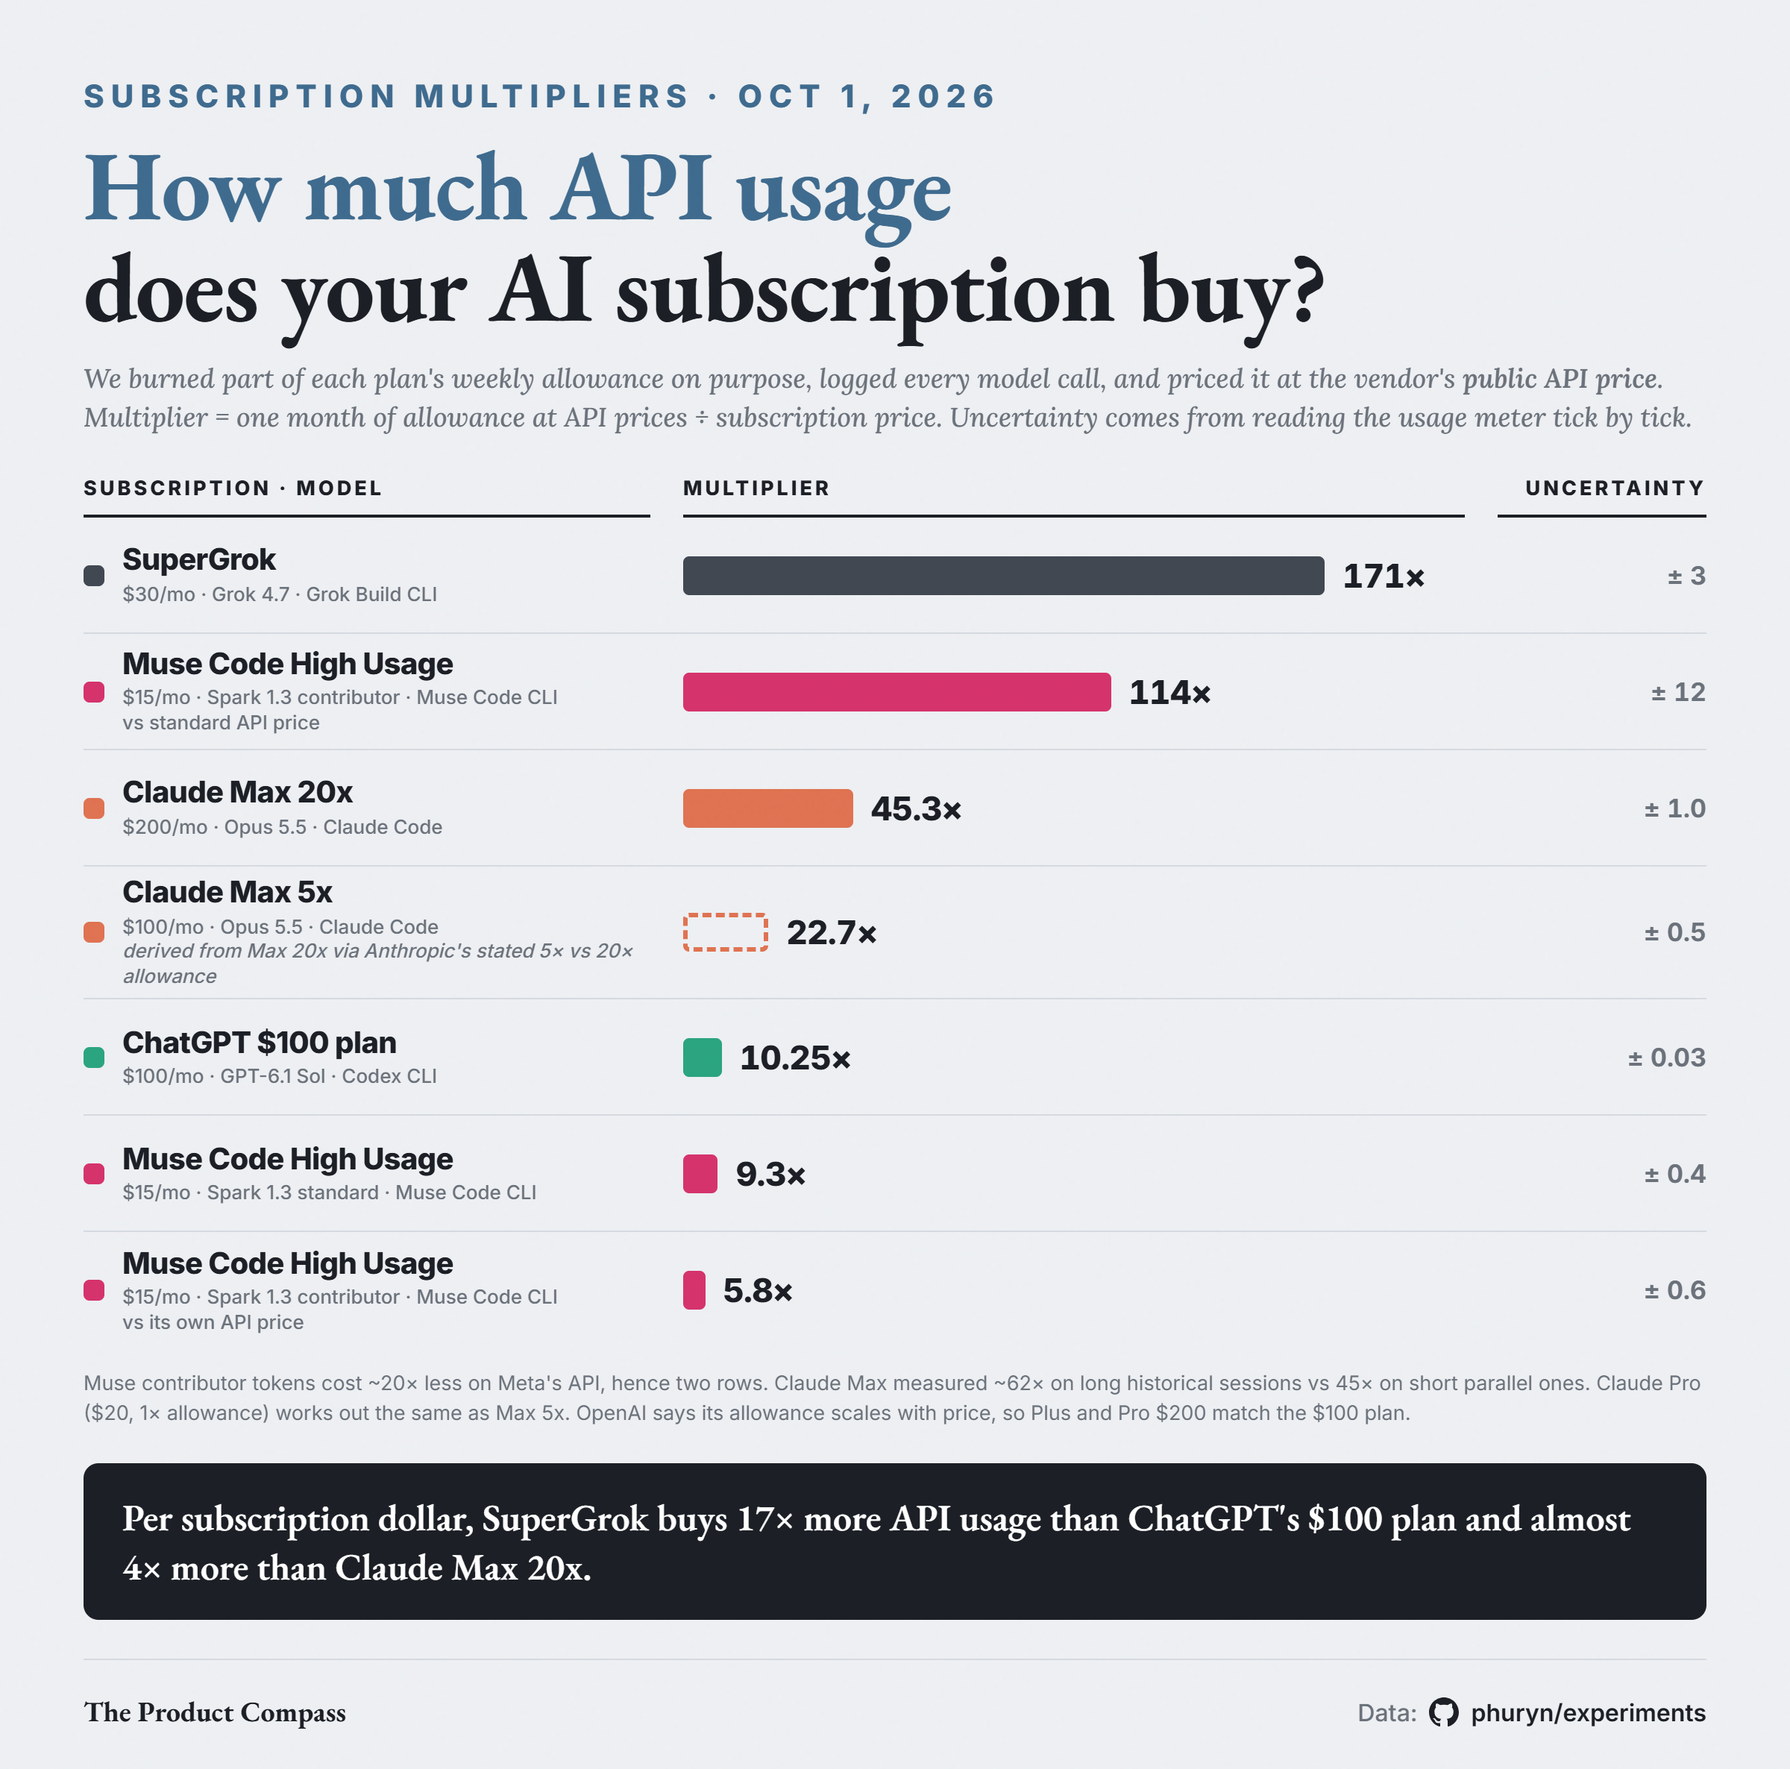
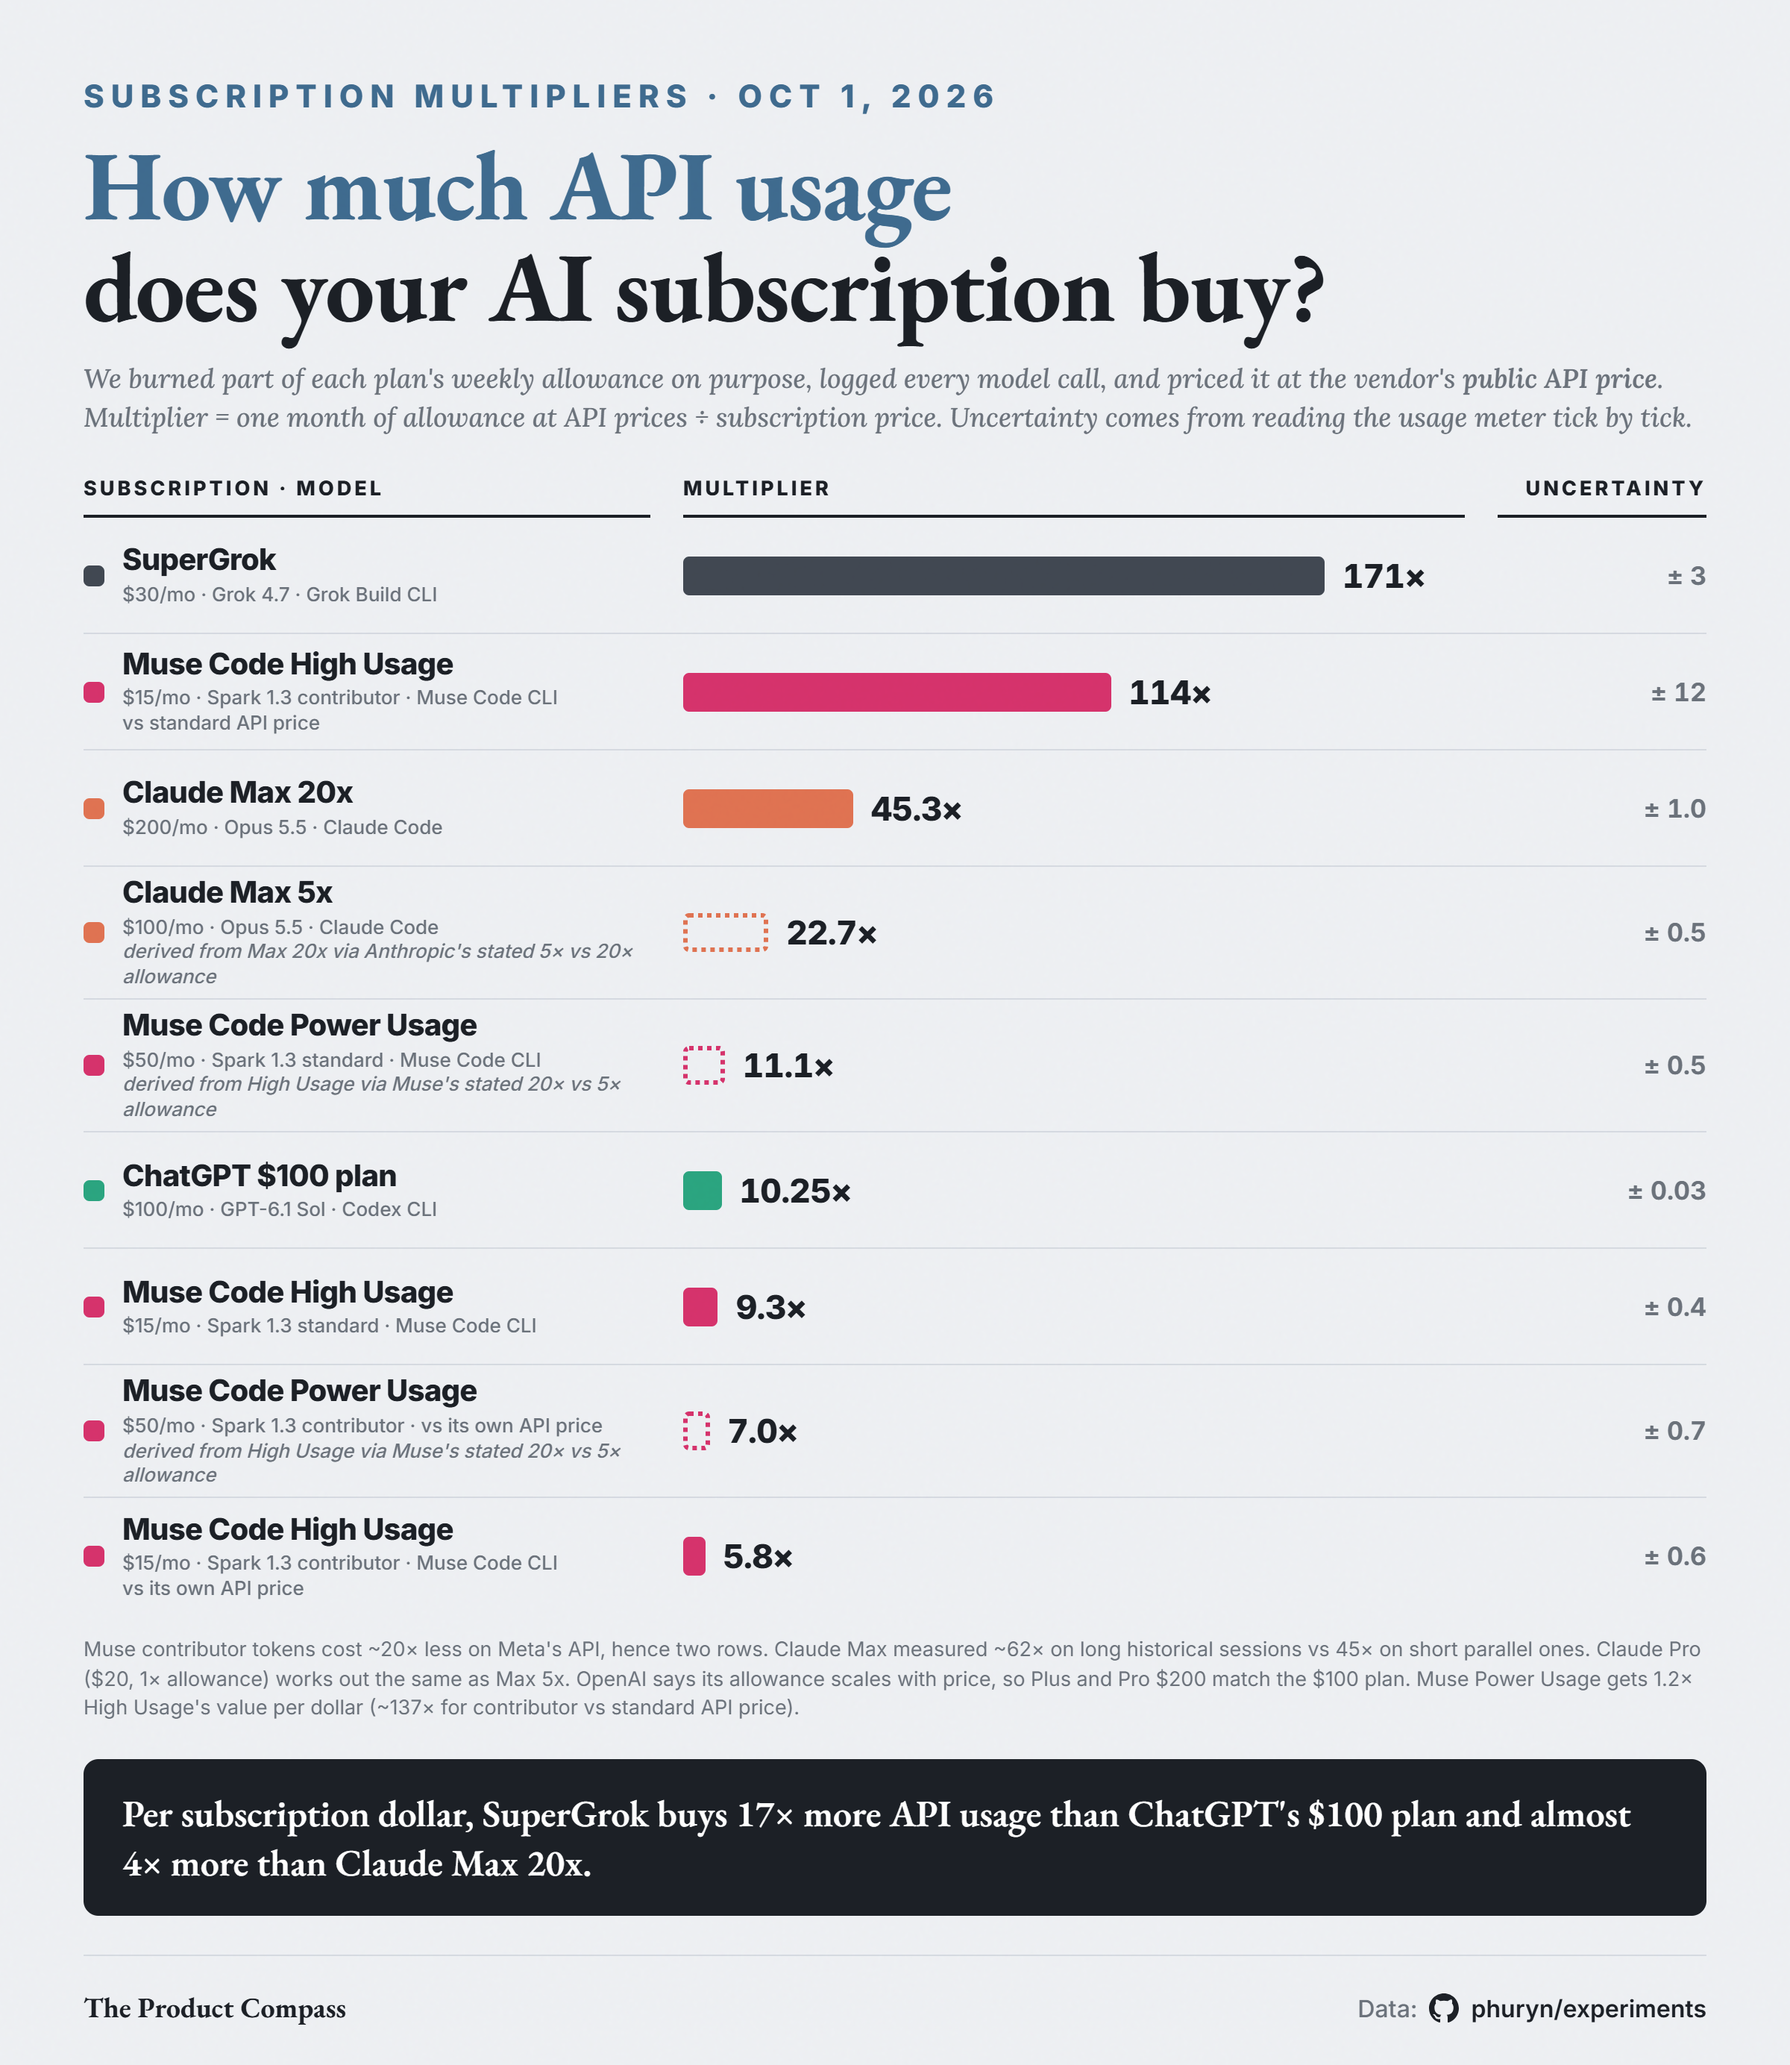
subscription-multipliers: derived Muse Code Power Usage rows (stated 5x/20x allowance vs Everyday base)

diff --git a/subscription-multipliers/README.md b/subscription-multipliers/README.md
@@ -10,13 +10,15 @@ How much API usage does an AI coding subscription actually buy? For each plan we
 | [Muse Code High Usage · Spark 1.3 contributor · Muse Code CLI — vs standard API price](04-muse-code/) | $15 | **114×** | ± 12 |
 | [Claude Max 20x · Opus 5.5 · Claude Code](02-claude-max/) | $200 | **45.3×** | ± 1.0 |
 | [Claude Max 5x · Opus 5.5 · Claude Code — *derived, not measured*](02-claude-max/#other-claude-plans-derived) | $100 | *22.7×* | ± 0.5 |
+| [Muse Code Power Usage · Spark 1.3 standard · Muse Code CLI — *derived, not measured*](04-muse-code/#other-muse-code-plans-derived) | $50 | *11.1×* | ± 0.5 |
 | [ChatGPT $100 plan · GPT-6.1 Sol · Codex CLI](03-codex/) | $100 | **10.25×** | ± 0.03 |
 | [Muse Code High Usage · Spark 1.3 standard · Muse Code CLI](04-muse-code/) | $15 | **9.3×** | ± 0.4 |
+| [Muse Code Power Usage · Spark 1.3 contributor · Muse Code CLI — vs its own API price, *derived, not measured*](04-muse-code/#other-muse-code-plans-derived) | $50 | *7.0×* | ± 0.7 |
 | [Muse Code High Usage · Spark 1.3 contributor · Muse Code CLI — vs its own API price](04-muse-code/) | $15 | **5.8×** | ± 0.6 |
 
 Measured Oct 1, 2026, each plan on its own, with other usage of that plan paused.
 
-**Claude Max 5x is derived, not measured:** Anthropic describes Max 5x as 5× and Max 20x as 20× the Pro allowance, so Max 5x gets a quarter of Max 20x's usage for half the price: 45.3× × ¼ × 2 = 22.7×. Claude Pro ($20, 1×) works out the same. OpenAI says its Codex allowance scales with price (Plus 1×, Pro $100 5×, Pro $200 10×), so every ChatGPT tier comes out at the measured 10.25×.
+**Claude Max 5x is derived, not measured:** Anthropic describes Max 5x as 5× and Max 20x as 20× the Pro allowance, so Max 5x gets a quarter of Max 20x's usage for half the price: 45.3× × ¼ × 2 = 22.7×. Claude Pro ($20, 1×) works out the same. OpenAI says its Codex allowance scales with price (Plus 1×, Pro $100 5×, Pro $200 10×), so every ChatGPT tier comes out at the measured 10.25×. **Muse Code Power Usage is derived the same way:** Muse describes Everyday Usage ($5) as the base allowance, High Usage ($15) as 5× and Power Usage ($50) as 20×, so Power gets 4× High Usage's allowance for 3.33× the price: High Usage × 1.2 (11.1× standard, 7.0× contributor vs its own API price, ~137× contributor vs standard API price).
 
 **Uncertainty** is the bracket on the run's average, explained below. Individual percent points can vary more than that (Codex's ranged 9.7–10.7×); every point is listed in each folder.
 

diff --git a/subscription-multipliers/04-muse-code/README.md b/subscription-multipliers/04-muse-code/README.md
@@ -56,6 +56,20 @@ Consistency check: the contributor brackets do **not** all intersect. The three 
    - Result: **114×** against what the same work costs on the private-data API; **5.8×** against contributor's own API price. If you are willing to share your data, paying per token for contributor is the better deal; if you are not, contributor is not an option on the API at standard price, and standard on the plan is 9.3×.
 3. **The 5-hour window is the real limit on standard.** It rose 22 points while the weekly rose 6: a full 5-hour window was worth ~$10 of standard API usage. On contributor it was ~$5–6 at contributor price.
 
+## Other Muse Code plans (derived)
+
+Only High Usage was measured. Muse describes its plans' monthly allowances relative to Everyday Usage ($5): High Usage ($15) = 5×, Power Usage ($50) = 20×. Taking that at face value, Power Usage gets 4× High Usage's allowance for 3.33× the price, i.e. 1.2× the multiplier:
+
+| Plan · model | Price | Allowance | Multiplier |
+|---|---|---|---|
+| High Usage · standard (measured) | $15 | 5× | 9.3× ± 0.4 |
+| Power Usage · standard (derived) | $50 | 20× | 9.25 × 1.2 = **11.1× ± 0.5** |
+| High Usage · contributor vs its own API price (measured) | $15 | 5× | 5.8× ± 0.6 |
+| Power Usage · contributor vs its own API price (derived) | $50 | 20× | 5.84 × 1.2 = **7.0× ± 0.7** |
+| Power Usage · contributor vs standard API price (derived) | $50 | 20× | 113.9 × 1.2 ≈ 137× |
+
+These rows are only as good as the stated allowance ratios; they were not measured.
+
 ## Caveats
 
 - **Contributor's range is wide because the run mixed three different workloads**, and at contributor prices cached tokens ($0.002) are 50× cheaper than uncached ($0.10), so the dollar value of a point swings with how much context is re-read. Standard was one homogeneous phase and came out tight. A repeat of contributor with standard's exact workload would make the two directly comparable.
